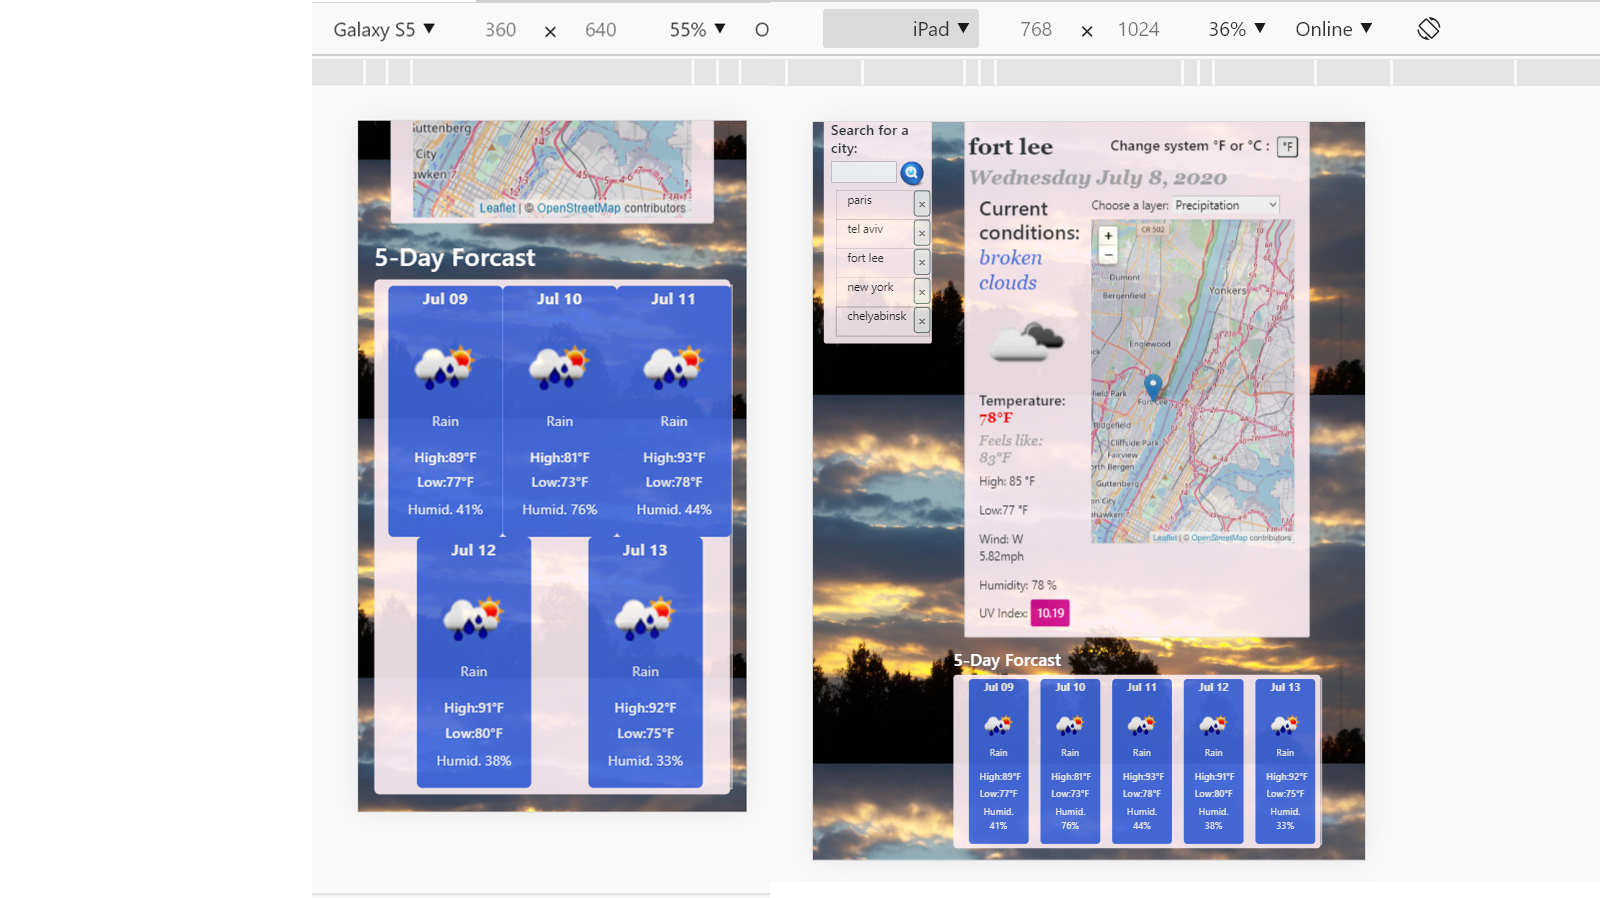
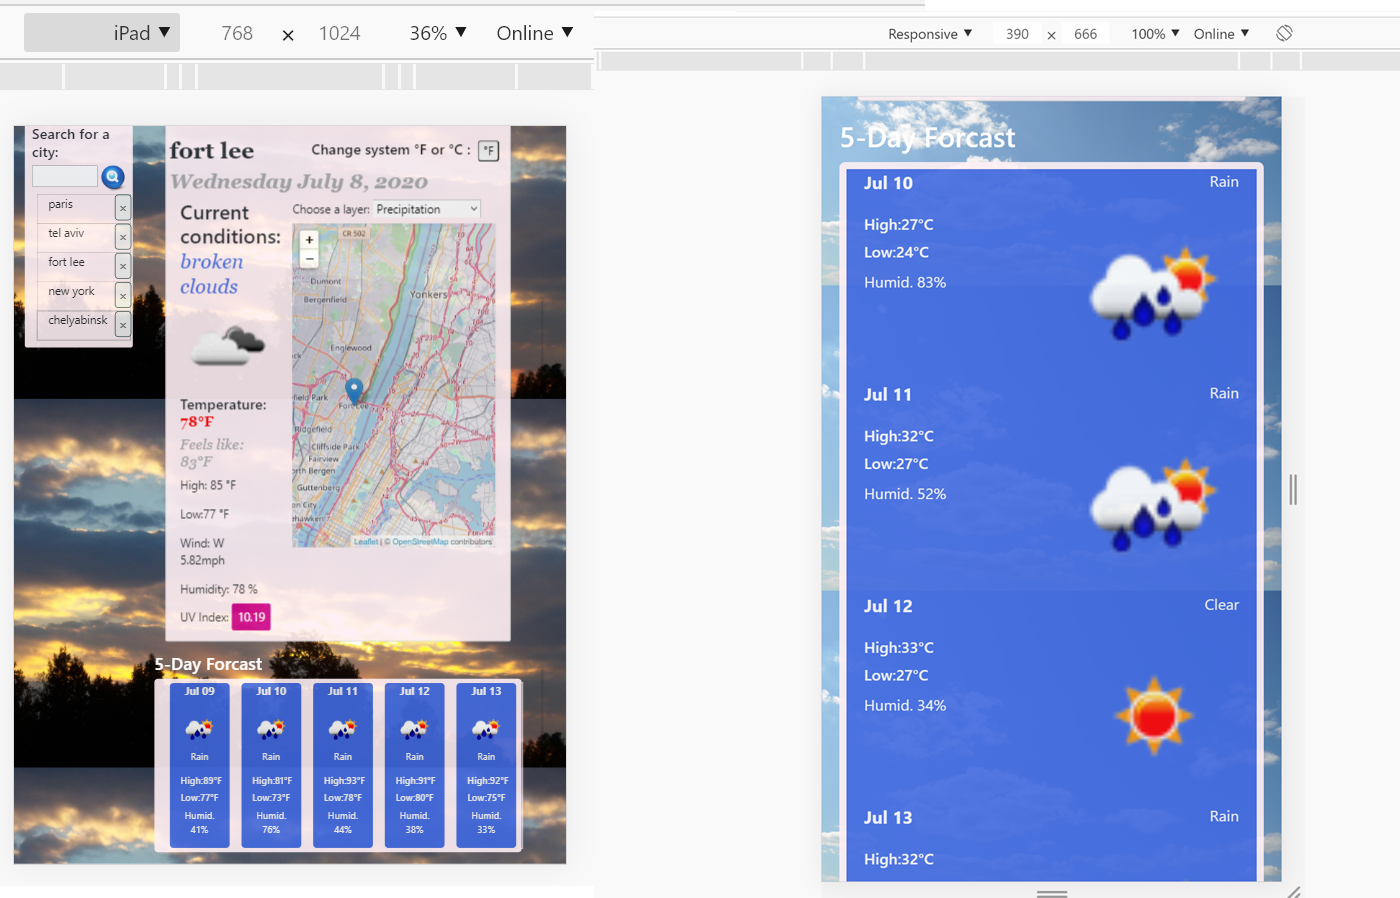
change layout for mobile users. Small change in Files

diff --git a/assets/js/main.js b/assets/js/main.js
@@ -4,7 +4,7 @@ var lon = 0;
 var lat = 0;
 var city = "New York,NY,USA";
 var cities = [];
-var imgURL='cloudy.jpg';
+var imgURL = 'cloudy.jpg';
 var cityInfo = {
   "name": "",
   "lat": 0,
@@ -173,9 +173,9 @@ function weatherConditions(coord) {
         "x-rapidapi-key": "dff8f3f117msh752eb83c0d81eb8p10add3jsn52664fe1c35d"
       }
     }
-    
+
     $.ajax(settings).done(function (response1) {
-      imgURL=response1.value[0].contentUrl;
+      imgURL = response1.value[0].contentUrl;
       document.body.style.backgroundImage = `url("${imgURL}")`;
       console.log(imgURL);
     }).catch(function (error) {
@@ -237,33 +237,70 @@ function weatherConditions(coord) {
     drawCities();
     // adding map
     ChangeMap(0, coord.lat, coord.lon);
-    el = `<div id="imp2">
-           <div class="row justify-content-around" id="rowFor1">           
-    `
-    let elM = `<div class="hidden" id="metr2">
-                <div class="row justify-content-around" id="rowFor2">               
-    `
+
     // displaying and arranging weather data in Farengeit and Celcious for 5 days ahead
-    for (var i = 1; i < 6; i++) {
-      el +=
-        ` <div class="col-4 col-md-2" style="background-color:royalblue; color: whitesmoke; text-align: center; margin:auto; border-radius: 5px">
+    if ($("div.container").width() > 484) {
+      el = `<div id="imp2">
+      <div class="row justify-content-around" id="rowFor1">           
+      `
+      let elM = `<div class="hidden" id="metr2">
+      <div class="row justify-content-around" id="rowFor2">               
+      `
+      for (var i = 1; i < 6; i++) {
+        el +=
+          ` <div class="col-2" style="background-color:royalblue; color: whitesmoke; text-align: center; margin:auto; border-radius: 5px">
            <p class="date">${moment().add(i, 'd').format('MMM DD')}</p>
-           <img class="cloudIcon" src="https://openweathermap.org/img/w/${response.daily[i].weather[0].icon}.png" alt="Cloud coverage day 1">
+           <img class="cloudIcon" src="https://openweathermap.org/img/w/${response.daily[i].weather[0].icon}.png" alt="Cloud coverage">
            <p class="futureData">${response.daily[i].weather[0].main}</p>
            <h6 class="futureData">High:${response.daily[i].temp.max.toFixed(0)}\xB0F</h6>
            <h6 class="futureData">Low:${response.daily[i].temp.min.toFixed(0)}\xB0F</h6>      
            <p class="futureData">Humid. ${response.daily[i].humidity}%</p>
           </div>`
-      elM +=
-        `
-          <div class="col-4 col-md-2" style="background-color:royalblue; color: whitesmoke; text-align: center; margin: auto; border-radius: 5px">         
-           <p class="date">${moment().add(i, 'd').format('MM/DD/YYYY')}</p>
-           <img class="cloudIcon" src="https://openweathermap.org/img/w/${response.daily[i].weather[0].icon}.png" alt="Cloud coverage day 1">
+        elM +=
+          `<div class="col-2" style="background-color:royalblue; color: whitesmoke; text-align: center; margin: auto; border-radius: 5px ">         
+           <p class="date">${moment().add(i, 'd').format('MMM DD')}</p>
+           <img class="cloudIcon" src="https://openweathermap.org/img/w/${response.daily[i].weather[0].icon}.png" alt="Cloud coverage ">
            <p class="futureData">${response.daily[i].weather[0].main}</p>
            <h6 class="futureData">High:${Math.round((response.daily[i].temp.max - 32) * 5 / 9)}\xB0C</h6> 
            <h6 class="futureData">Low:${Math.round((response.daily[i].temp.min - 32) * 5 / 9)}\xB0C</h6>
            <p class="futureData">Humid. ${response.daily[i].humidity}%</p>
-          </div>`
+          <div class="col-2" style="background-color:royalblue; color: whitesmoke; text-align: center; margin: auto;">  
+          `
+      }
+    }else{
+      el = `<div id="imp2">
+      <div class="row" id="rowFor1" style="background-color:royalblue; color: whitesmoke; text-align: left; margin:auto;" >           
+      `
+      elM = `<div class="hidden" id="metr2">
+      <div class="row" id="rowFor2" style="background-color:royalblue; color: whitesmoke; text-align: left; margin:auto">               
+      `
+      for (var i = 1; i < 6; i++) {
+        el +=
+          ` 
+            <div class="col-6" style="text-align: left">
+              <p class="date">${moment().add(i, 'd').format('MMM DD')}</p>   
+              <h6 class="futureData">High:${response.daily[i].temp.max.toFixed(0)}\xB0F</h6>
+              <h6 class="futureData">Low:${response.daily[i].temp.min.toFixed(0)}\xB0F</h6>      
+              <p class="futureData">Humid. ${response.daily[i].humidity}%</p>
+            </div>
+            <div class="col-6" style="text-align: right" >
+             <p class="futureData">${response.daily[i].weather[0].main}</p>
+             <img class="cloudIcon" style="float:right" src="https://openweathermap.org/img/w/${response.daily[i].weather[0].icon}.png" alt="Cloud coverage">
+          </div>
+          `
+        elM +=
+          ` 
+           <div class="col-6" style="text-align: left" >
+             <p class="date">${moment().add(i, 'd').format('MMM DD')}</p>
+             <h6 class="futureData">High:${Math.round((response.daily[i].temp.max - 32) * 5 / 9)}\xB0C</h6> 
+             <h6 class="futureData">Low:${Math.round((response.daily[i].temp.min - 32) * 5 / 9)}\xB0C</h6>
+             <p class="futureData">Humid. ${response.daily[i].humidity}%</p>
+          </div>  
+          <div class="col-6" style="text-align: right">
+            <p class="futureData">${response.daily[i].weather[0].main}</p>
+            <img class="cloudIcon" style="float:right" src="https://openweathermap.org/img/w/${response.daily[i].weather[0].icon}.png" alt="Cloud coverage">
+          </div> `
+      }
     }
     el += "</div> </div>";
     $currentEl = document.createElement('div');
@@ -271,9 +308,9 @@ function weatherConditions(coord) {
     // $currentEl = $currentEl.firstElementChild;
     $("#forPan").empty();
     $("#forPan").append($currentEl);
-    el += "</div> </div>";
+    elM += "</div> </div>";
     $currentEl = document.createElement('div');
-    $currentEl.innerHTML = elM;    
+    $currentEl.innerHTML = elM;
     $("#forPan").append($currentEl)
   });
 };
@@ -313,7 +350,7 @@ $("#add-city").on("click", function (event) {
 $(document).on("click", ".smBtn", function (event) {
   var coor = event.target.id;
   var pos = parseInt(coor.slice(5));
-  cities.splice(pos,1);
+  cities.splice(pos, 1);
   storeCities();
   drawCities();
 });
